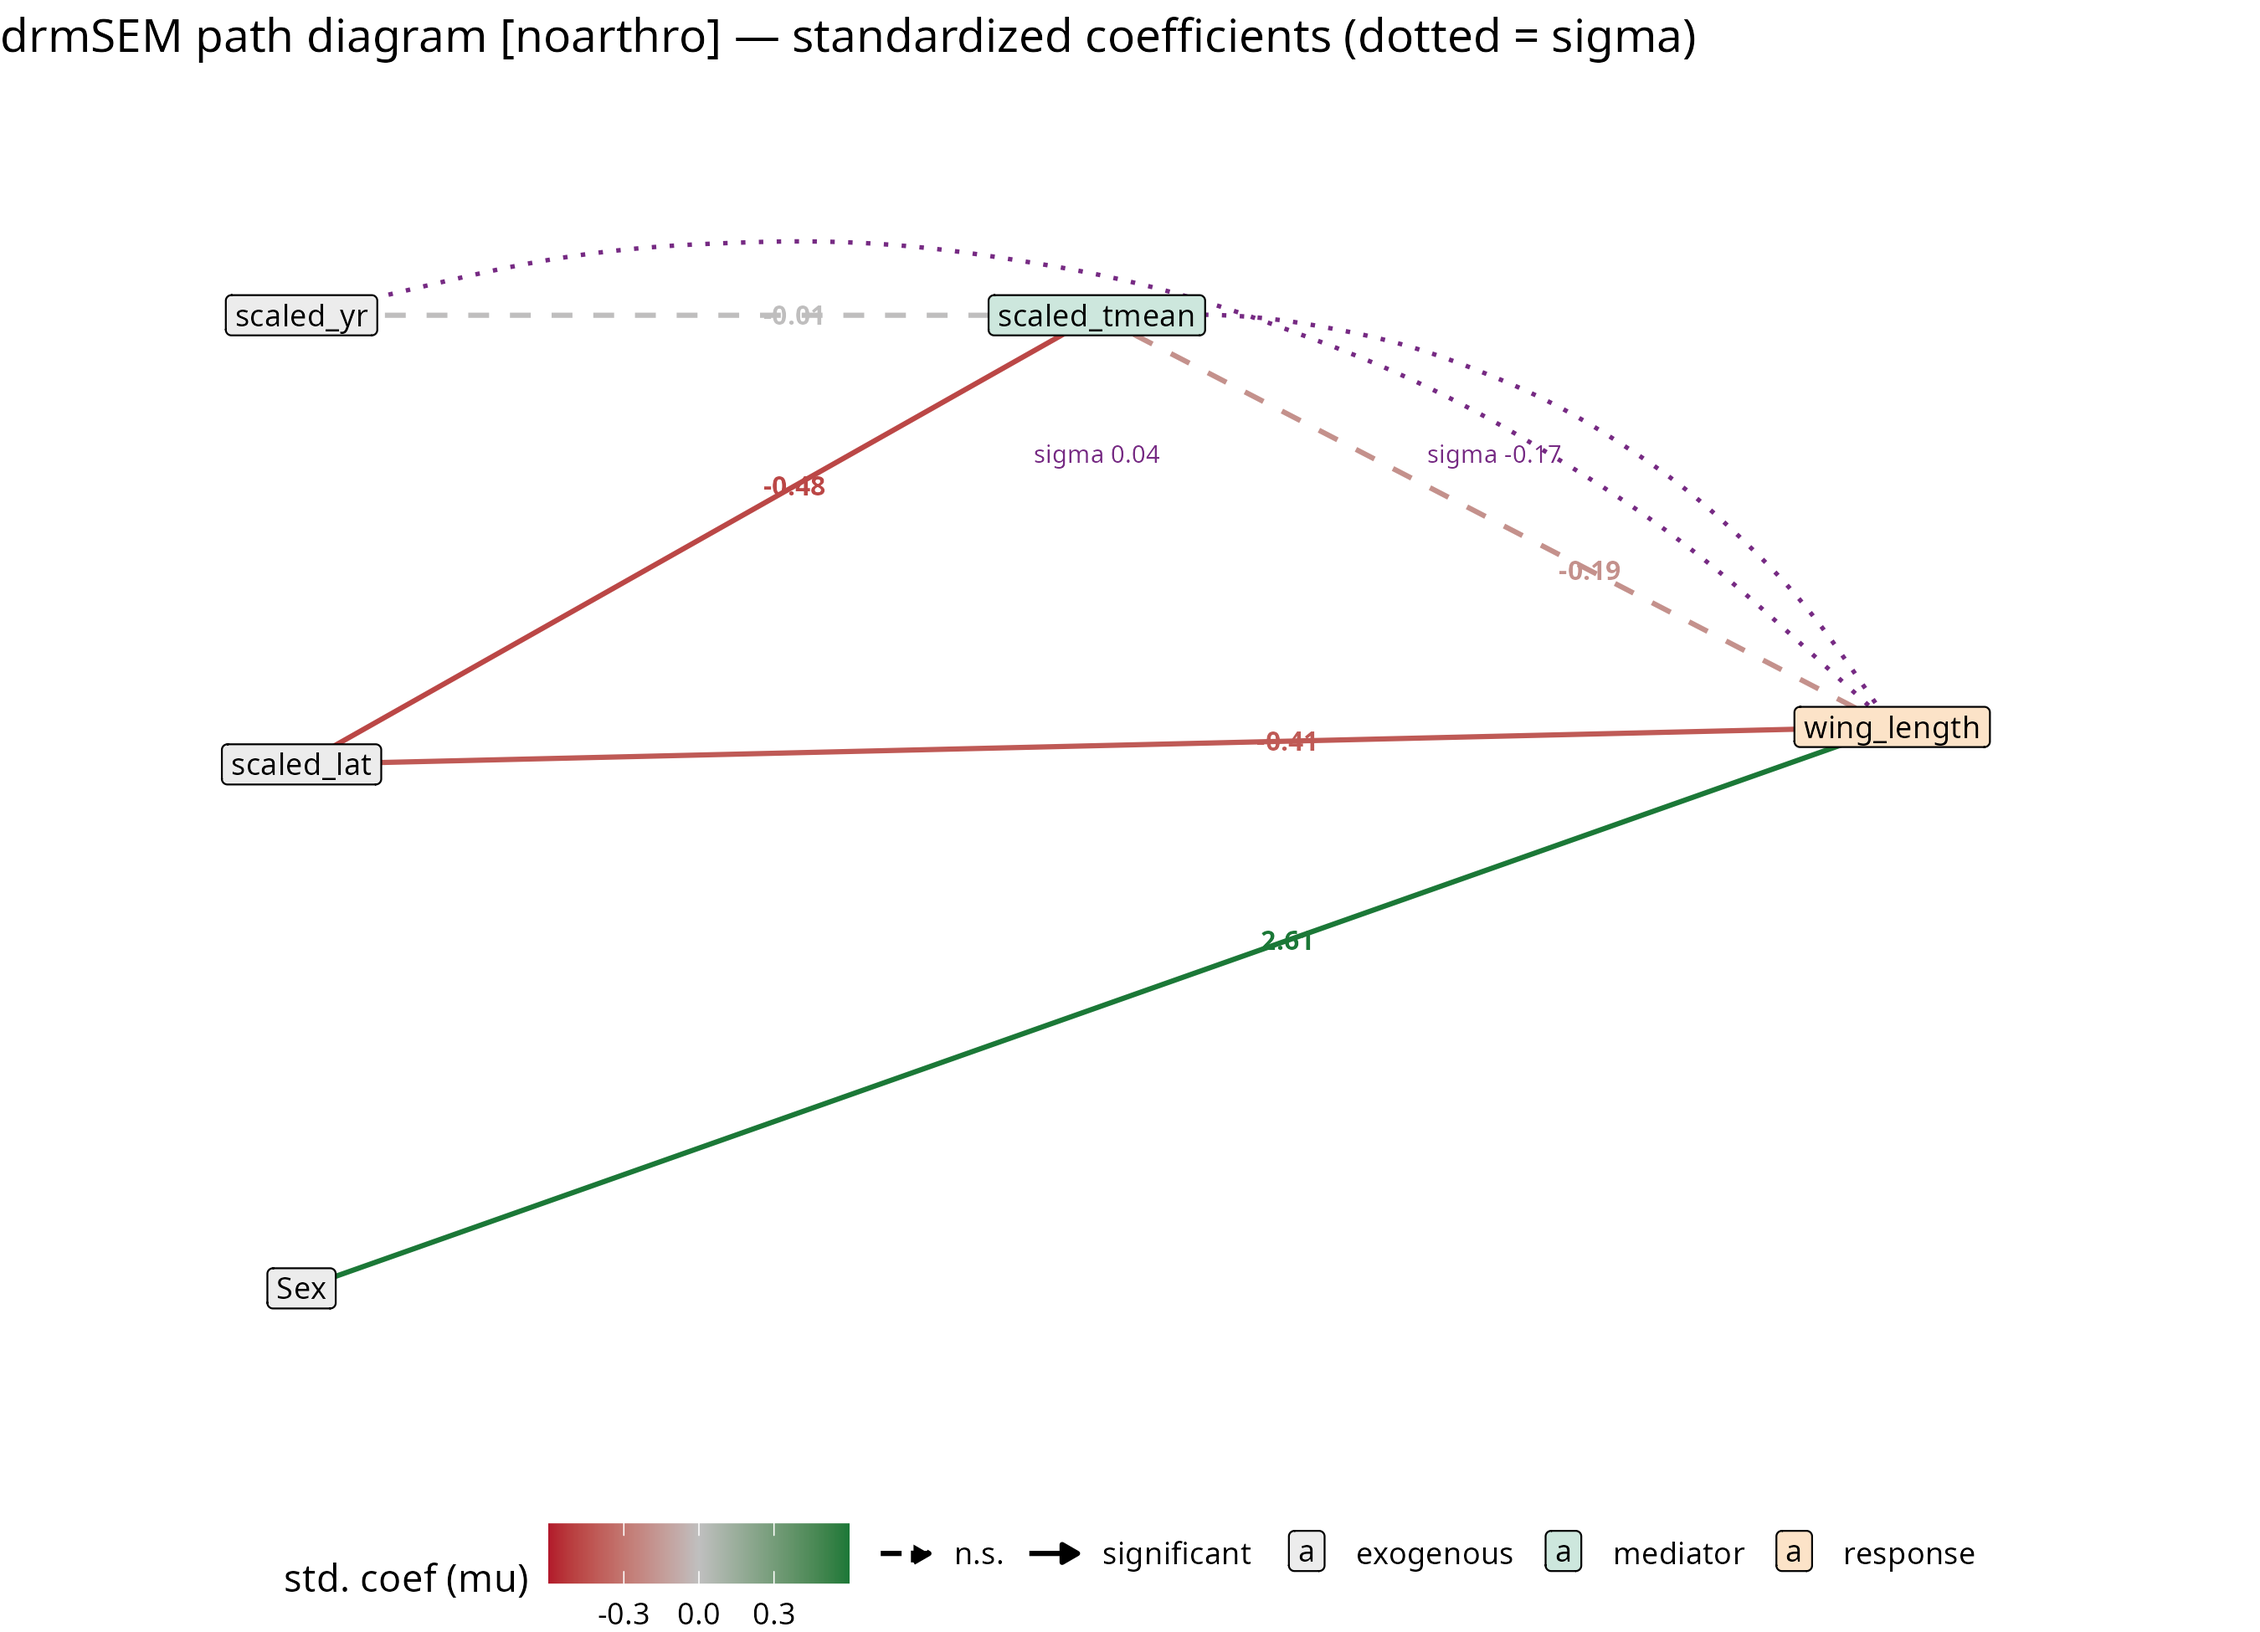
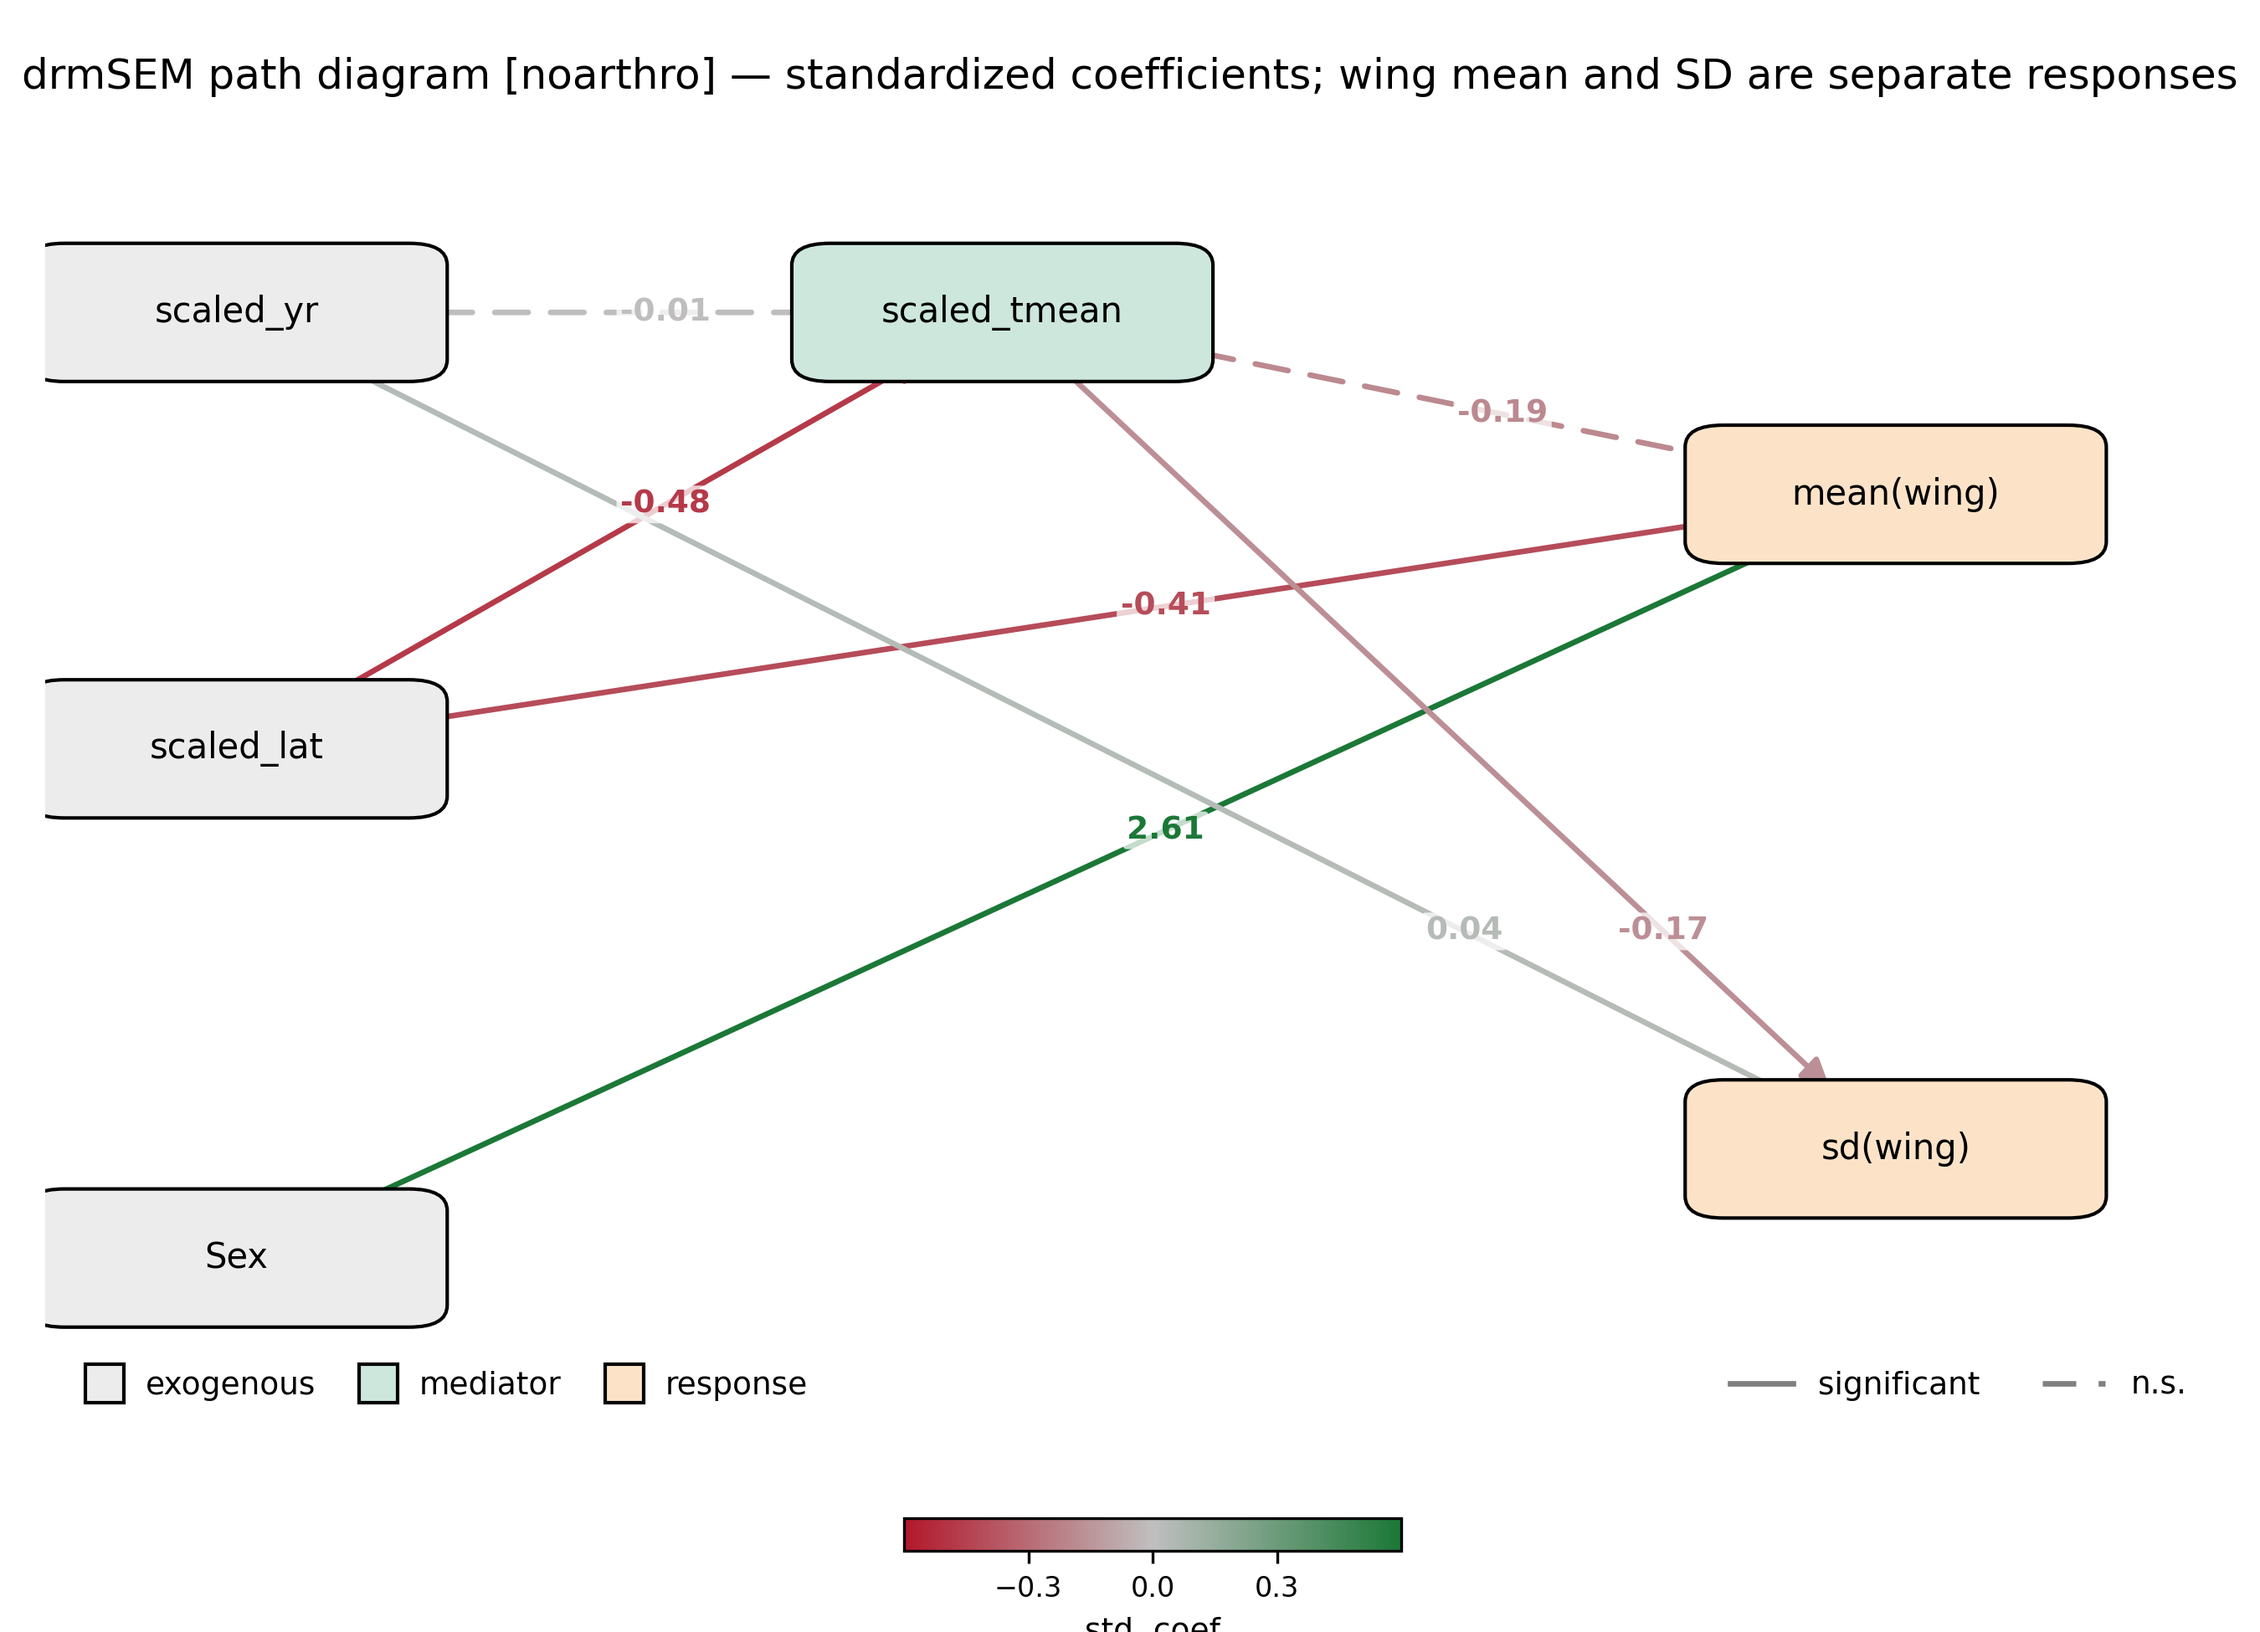
Update drmSEM path diagram to show mean(wing) and sd(wing) as separate response nodes

diff --git a/Manuscript/RENDER_STEPS.md b/Manuscript/RENDER_STEPS.md
@@ -36,6 +36,11 @@ Rscript ../Analysis/scripts/atlantic_diet_interaction.R   # writes images/diet_i
 - `fig-drmsem.png` is the full-record drmSEM DAG, copied from
   `../Analysis/figures/drmsem_dag_noarthro.png`. The arthropod-coverage DAG was
   rejected (Fisher's C P = 0.009), so the full-record model is the one shown.
+  The DAG now draws wing length as two co-equal response nodes — `mean(wing)`
+  and `sd(wing)` — with the σ (variance-submodel) paths entering `sd(wing)` as
+  ordinary directed edges, since drmSEM models the mean and residual SD as
+  separate distributional responses. Regenerate with
+  `Rscript ../Analysis/scripts/make_figures.R noarthro`.
 
 ## 2. Render the document
 
